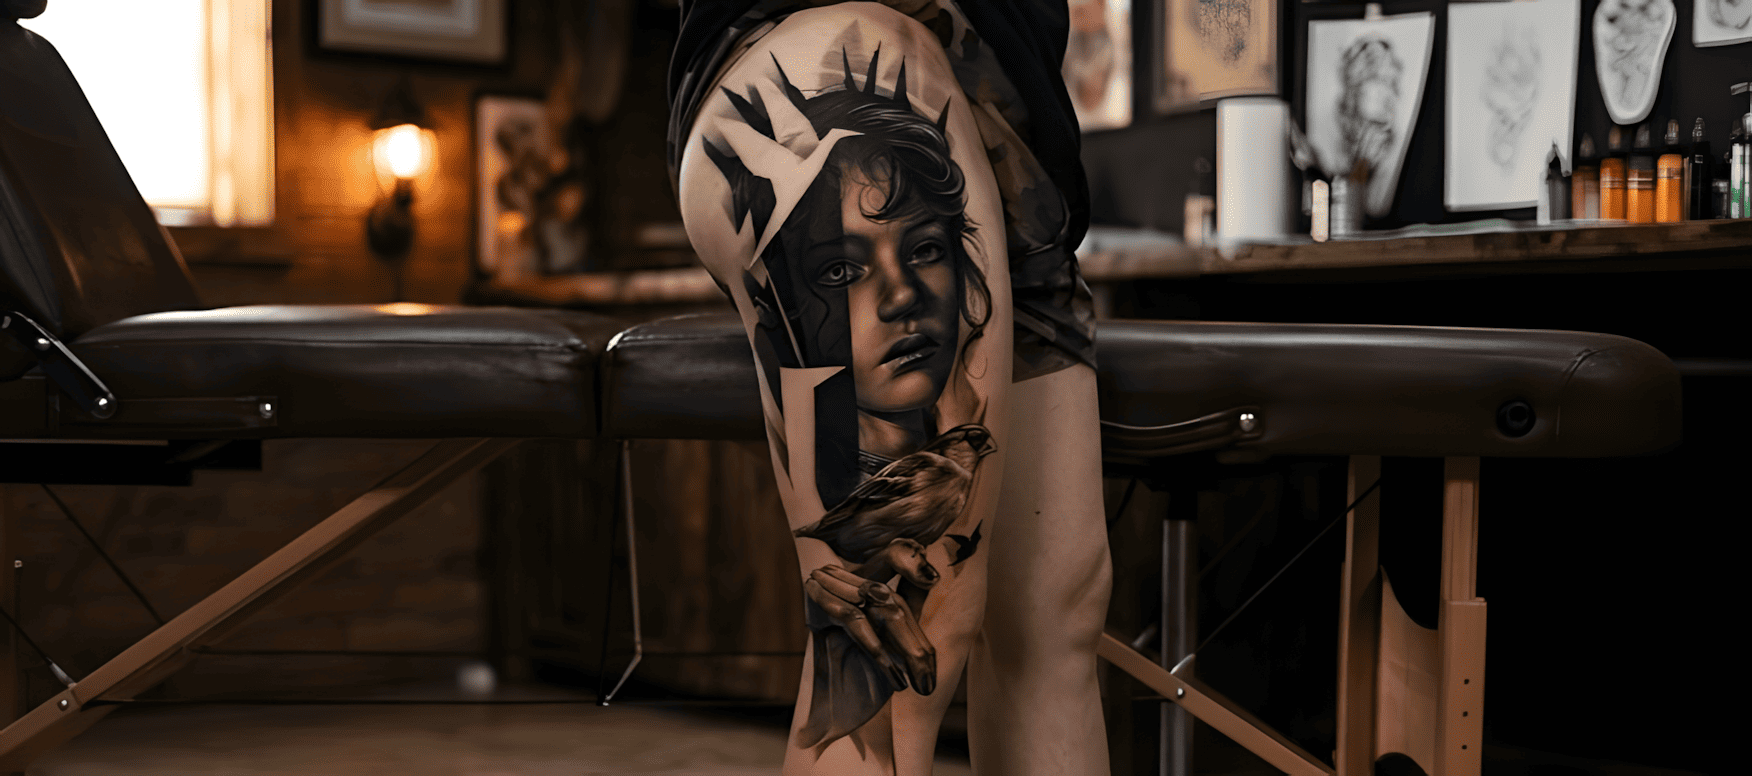
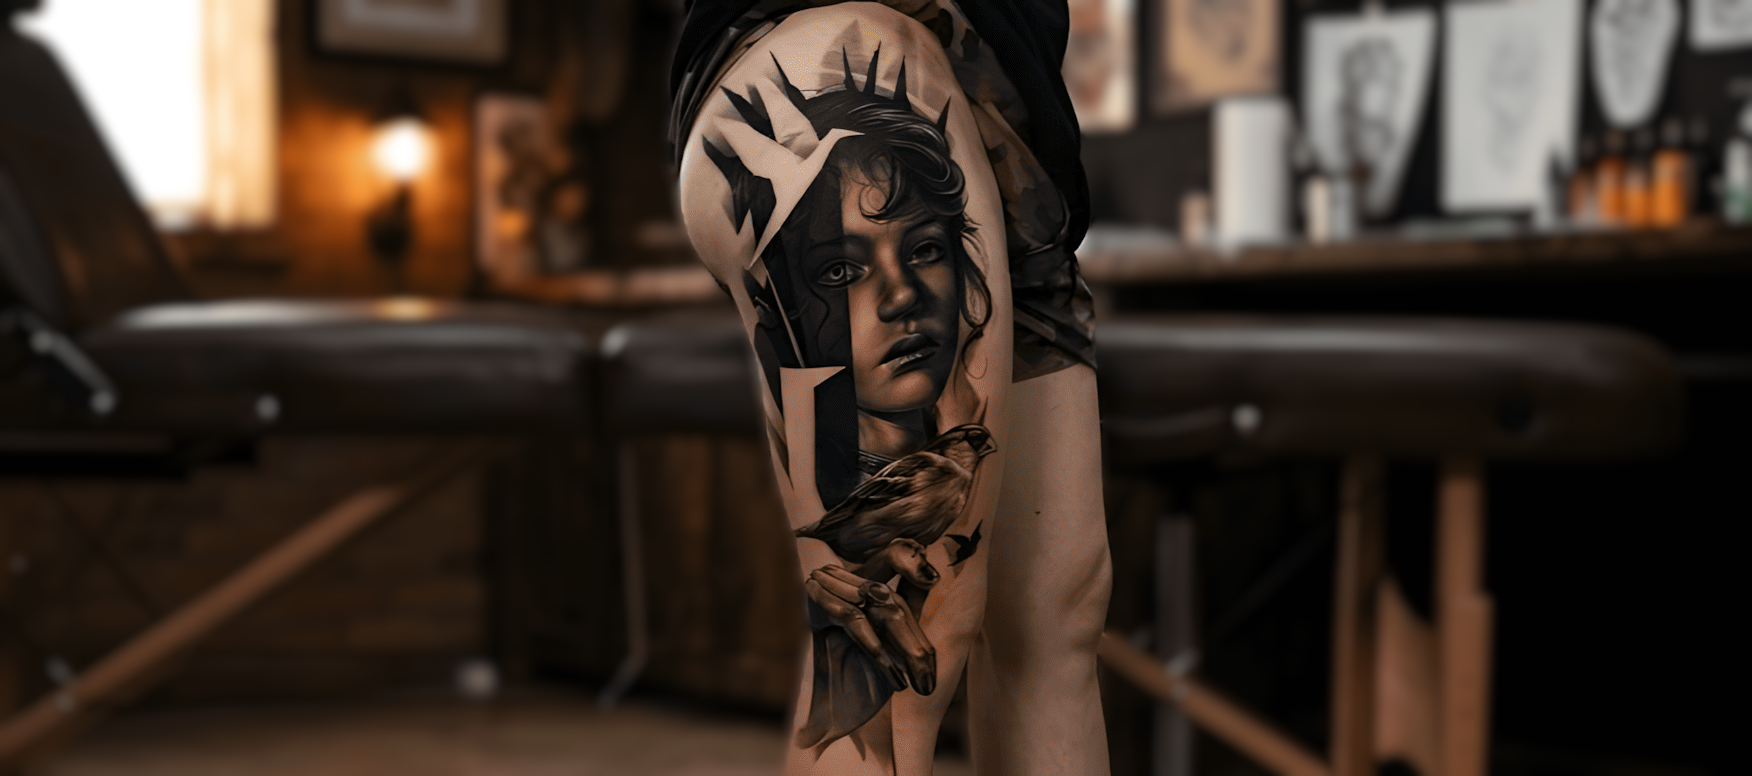
Animação hero page

diff --git a/script/script.js b/script/script.js
@@ -1,39 +1,88 @@
 gsap.registerPlugin(ScrollTrigger, SplitText)
 
-gsap.fromTo(".img-logo",{
+const tlHero = gsap.timeline()
+
+tlHero.fromTo(".img-logo", {
     scale: .5,
     opacity: 0,
-} ,{ 
+}, {
     scale: 1,
     opacity: 1,
-    duration:1
+    duration: 1
 })
 
-gsap.to(".img-logo", {
-    opacity:0 ,
+tlHero.to(".img-logo", {
+    opacity: 0,
     y: 150,
     duration: 1
 }, "+1.5")
 
-gsap.to(".box-sup",{
+tlHero.to(".box-sup", {
     y: "-200%",
     duration: 1,
     stagger: {
         each: .1,
         from: "center"
     },
-    
+
 }, "+")
 
-gsap.to(".box-inf",{
+tlHero.to(".box-inf", {
     y: "200%",
     duration: 1,
     stagger: {
         each: .1,
         from: "center"
     },
-    
+
 }, "<")
 
+let heroTitulo = new SplitText(".titulo-hero", { type: "chars" })
+let LetrasHero = heroTitulo.chars;
 
- 
+tlHero.from(".hero-img img", {
+    opacity: 0,
+    x: 400,
+    opacity: 0,
+    duration: 1,
+    ease: "sine.out",
+}, "<+.6")
+
+
+tlHero.from(LetrasHero, {
+    opacity: 0,
+    y: 200,
+    duration: 1,
+    ease: "back.out",
+    stagger: {
+        from: "start",
+        each: .1
+    }
+})
+
+tlHero.from(".text-hero p", {
+    x: -200,
+    opacity: 0
+}, "<+1")
+
+gsap.to(".hero-img img", {
+    scale: 1.2,
+    duration: 1,
+    scrollTrigger: {
+        trigger: ".hero",
+        start: "top top",
+        end: "bottom bottom",
+        scrub: true,
+    }
+})
+
+gsap.to(".text-hero p", {
+    y: 100,
+    scrollTrigger: {
+        trigger: ".hero",
+        start: "center top",
+        end: "bottom bottom",
+        scrub: true,
+        markers: true
+    }
+})

diff --git a/index.html b/index.html
@@ -14,7 +14,7 @@
 </head>
 
 <body>
-    <!-- <section class="preloader">
+    <section class="preloader">
         <div class="loader">
             <img src="img/logo-B1.png" alt="Logo b1 tattoo" class="img-logo">
             <div class="superior">
@@ -32,17 +32,17 @@
                 <div class="box-inf"></div>
             </div>
         </div>
-    </section> -->
+    </section>
 
     <section class="hero espaco">
         <h1 class="titulo-hero">B1 tattoo</h1>
 
         <div class="hero-img">
             <img src="/img/hero/tattoo-hero.png" alt="tatuagem hero">
+            </div>
             <div class="text-hero">
                 <p>Tattoo alem da arte</p>
                 <p>Scroll para explorar &darr;</p>
-            </div>
         </div>
     </section>
 </body>

diff --git a/style/style.css b/style/style.css
@@ -69,8 +69,10 @@ body {
     font-family: var(--fontPrim);
     text-transform: uppercase;
     font-size: clamp(5.5rem, 9vw, 10vw);
+    padding-bottom: .5rem;
     font-weight: 800;
     color: var(--b1Red);
+    z-index: -5;
 }
 
 .hero-img {
@@ -78,7 +80,7 @@ body {
     flex-direction: column;
     width: 100%;
     height: 34rem;
-
+    overflow: hidden;
     img {
         object-fit: cover;
         height: 100%;
@@ -89,8 +91,9 @@ body {
     display: flex;
     justify-content: space-between;
     text-align: center;
-    padding:1.5rem 0;
+    padding:1.5rem 0 0 0;
     p {
         font-size: 1.1rem;
+        z-index: -5;
     }       
 }
